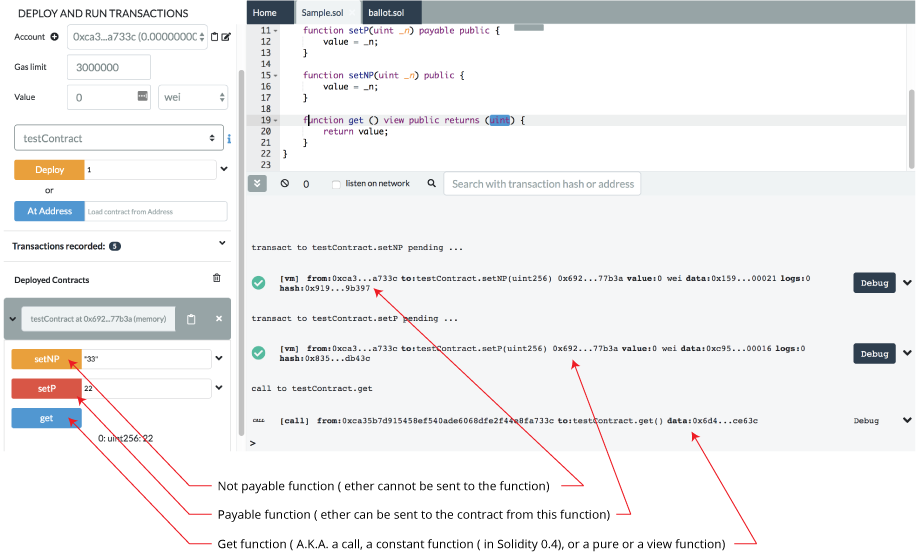
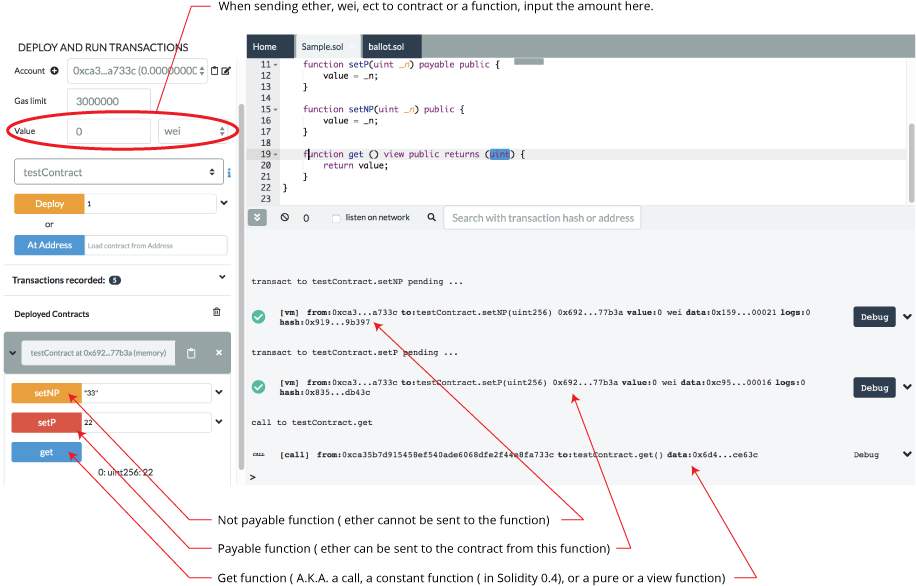
updating docs with about Low level interactions with a contract

diff --git a/docs/udapp.md b/docs/udapp.md
@@ -11,7 +11,7 @@ The deployed contract appears but is in its collapsed form.
 
 Click the sideways caret to open it up.
 
-![](images/a-debug3-udapp2.png)
+![](images/a-udapp1.png)
 
 You will see the functions in the contract.  The functions buttons can have different color buttons.
 
@@ -24,8 +24,8 @@ You will see the functions in the contract.  The functions buttons can have diff
 ![](images/a-jvm-calling-instance.png)
 
 
-For more information see more about [Solidity
-modifier](http://solidity.readthedocs.io/en/develop/miscellaneous.html?highlight=pure#modifiers)
+See more information about [Solidity
+modifiers](http://solidity.readthedocs.io/en/develop/miscellaneous.html?highlight=pure#modifiers) in the Solidity docs.
 .
 
 If a function requires input parameters, well.. you gotta put them in.
@@ -54,6 +54,29 @@ In the expanded view, strings do not need to be wrapped.
 Clicking the clipboard icon will encode the inputs and will copy them.  Only a valid set of inputs can be encoded.  
 
 So if you made a mistake and put a uint8 where an address should have been, clicking the clipboard here will give you an error.
+
+## Low level interactions
+
+Low level interactions are used to send funds or calldata or funds & calldata to a contract through the **recieve()** or **fallback()** function.  Typically, you should only need to implement the fallback function if you are following an upgrade or proxy pattern.
+
+The low level interactions section is below the functions in each deployed contract.
+
+![](images/a-udapp1.png)
+
+
+Please note the following:
+
+- If you are executing a plain Ether transfer to a contract, you need to have the receive() function in your contract.  If your contract has been deployed and you want to send it funds, you would input the amount of Ether or Wei etc. (see **A** in graphic below), and then input **NOTHING** in the calldata field of **Low level interactions** (see **B** in graphic) and click the Transact button (see **C** in graphic below).
+
+![](images/a-receive-fun.png)
+
+- If you are sending calldata to your contract with Ether, then you need to use the fallback() function and have it with the state mutability of **payable**.  
+
+- If you are not sending ether to the contract but **are** sending call data then you need to use the fallback() function.
+
+- If you break the rules when using the **Low level interactions** you will be slapped with a warning.
+
+Please see the [solidity docs](https://solidity.readthedocs.io/en/latest/contracts.html#receive-ether-function  ) for more specifics about using the **fallback** and **receive** functions. 
 
 ### Passing in a tuple or a struct to a function
 To pass a tuple in, you need to put in an an array [].
